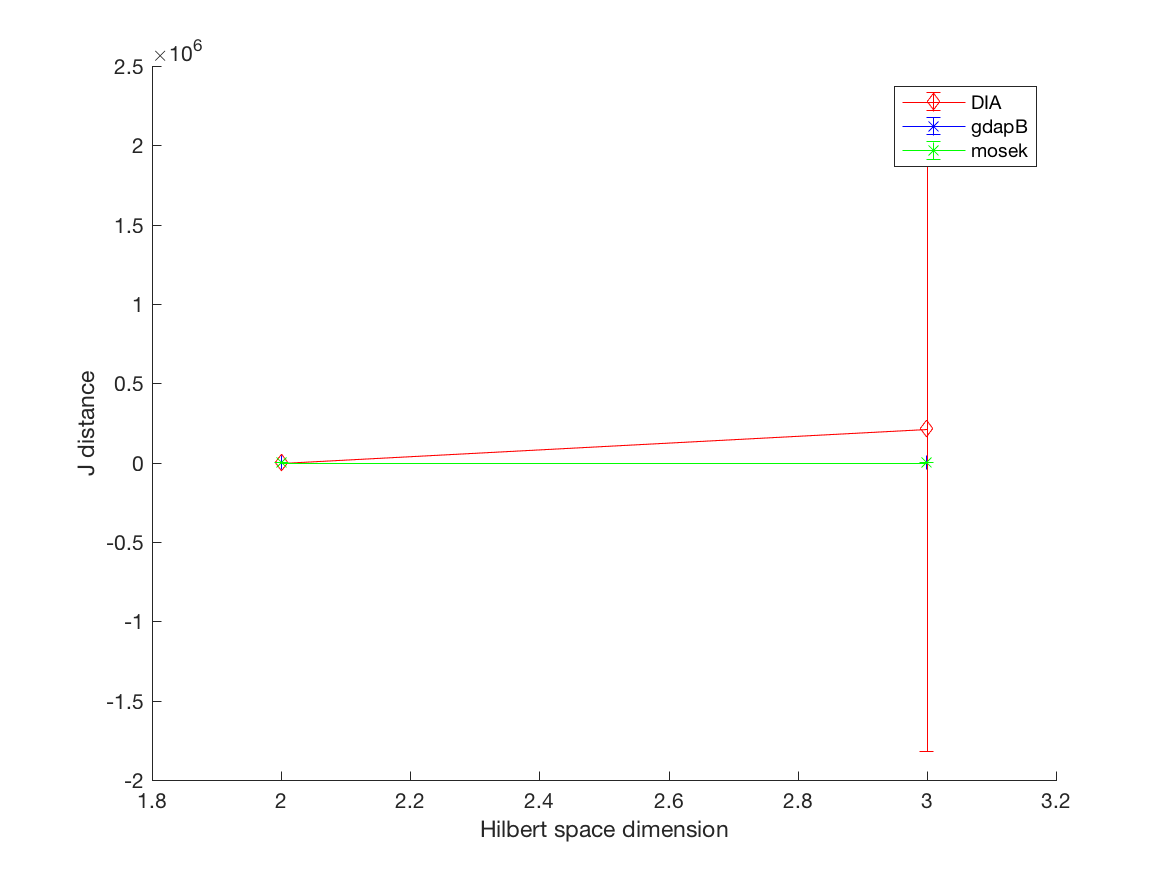
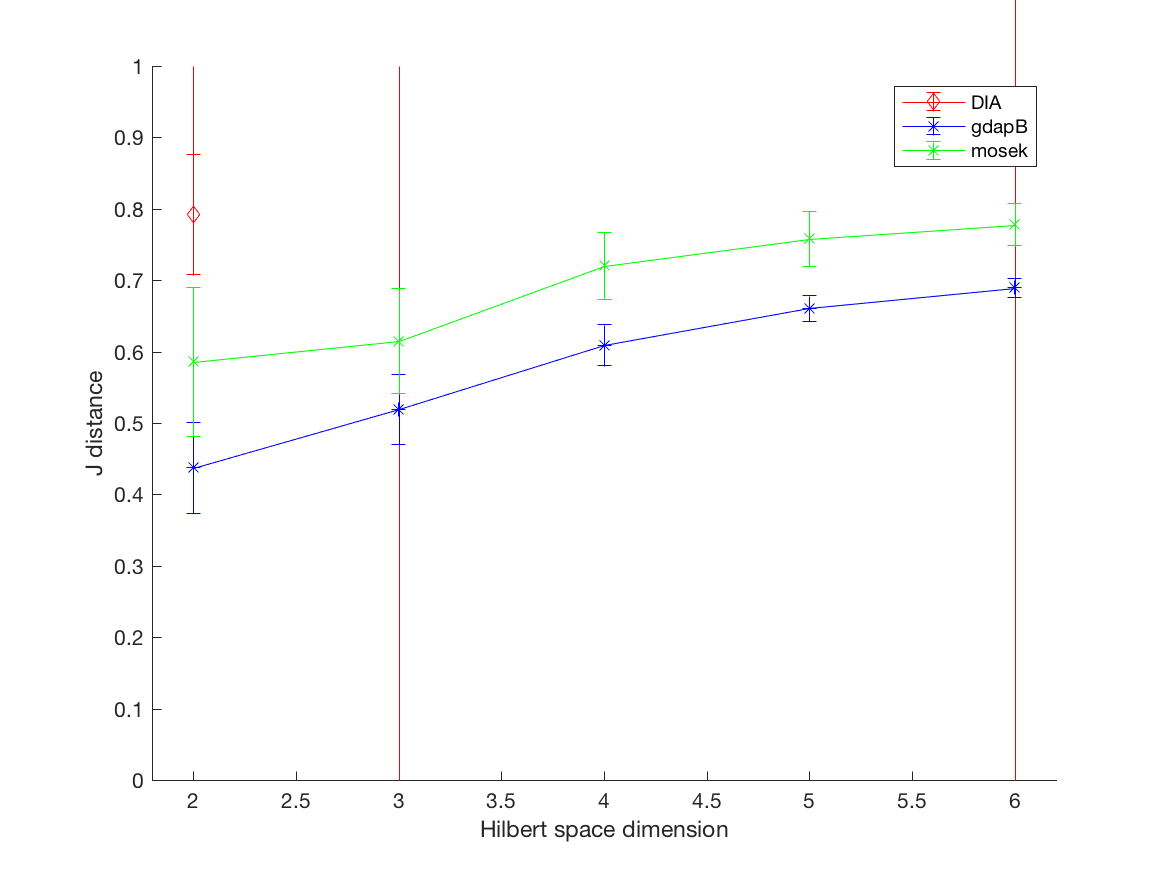
fixed initialisation of IO matrix

diff --git a/make_plots.m b/make_plots.m
@@ -1,5 +1,5 @@
 % read in 100 running times for each method, for each d.
-dmax = 3;
+dmax = 6;
 
 gdapB_times = zeros(100,dmax);
 mosek_times = zeros(100,dmax);
@@ -21,16 +21,22 @@ for d=2:dmax
         DIA_times(i,d)  = elapsedTime;
         choi_DIA        = reshape(choi_ml_vec,[],d*d);
         DIA_errors(i,d) = trace_dist(choi_ground/trace(choi_ground),choi_DIA/trace(choi_DIA));
+        
+        clear choi_ml_vec
                
         load([dir,'/gdapB_results',num2str(i)]);
         gdapB_times(i,d) = elapsedTime;
         choi_gdapB        = reshape(choi_ml_vec,[],d*d);
         gdapB_errors(i,d) = trace_dist(choi_ground/trace(choi_ground),choi_gdapB/trace(choi_gdapB));
         
+        clear choi_ml_vec
+        
         load([dir,'/mosek_results',num2str(i)]);
         mosek_times(i,d) = elapsedTime;    
         choi_mosek        = reshape(choi_ml_vec,[],d*d);
         mosek_errors(i,d) = trace_dist(choi_ground/trace(choi_ground),choi_mosek/trace(choi_mosek));
+        
+        clear choi_ml_vec
     end
 end
 
@@ -52,6 +58,7 @@ errorbar(2:dmax,mean(DIA_errors(:,2:end)),std(DIA_errors(:,2:end)),'-rd');
 errorbar(2:dmax,mean(gdapB_errors(:,2:end)),std(gdapB_errors(:,2:end)),'-b*');
 errorbar(2:dmax,mean(mosek_errors(:,2:end)),std(mosek_errors(:,2:end)),'-gx');
 xlim([1.8,dmax+0.2])
+ylim([0,1])
 xlabel 'Hilbert space dimension'
 ylabel 'J distance';
 legend('DIA','gdapB','mosek')

diff --git a/DIA.m b/DIA.m
@@ -16,7 +16,7 @@ function [ choi_ml_vec, solution, costs  ] = DIA( A,n )
         if prod(isfinite(partial_trace(rho_new))) == 0
             break
         end
-
+        % TODO catch singular matrices, too
         lambda = sqrtm(partial_trace(rho_new));
         Lambda = kron(eye(d),lambda);
         if rcond(Lambda) < 1e-10

diff --git a/generate_clicks.m b/generate_clicks.m
@@ -17,7 +17,7 @@ for d=2:6
         choi_ground     = reshape(choi_ground_vec,[],d*d);
 
         p               = real(A*choi_ground_vec);
-        
+        p               = p/sum(p);
         % n             = mnrnd(1e4,p)';
         % n             = n/sum(n); % activate for multinomial noise
         

diff --git a/GGM_IO.m b/GGM_IO.m
@@ -3,7 +3,7 @@ function [ A ] = GGM_IO( d )
 %   Detailed explanation goes here
     
 % generate GGM inputs and outputs
-    preparations = cell(d*d-1);
+    preparations = cell(1,d*d-1);
     i = 1;
     for j=0:d-1
         for k=0:d-1

diff --git a/old/old_script.m b/old/old_script.m
@@ -1,4 +1,4 @@
-for d=2:5   
+for d=2:2   
     close all; clear A; clear n;
     % num_qubits = 1;
     % initialise ground truth
